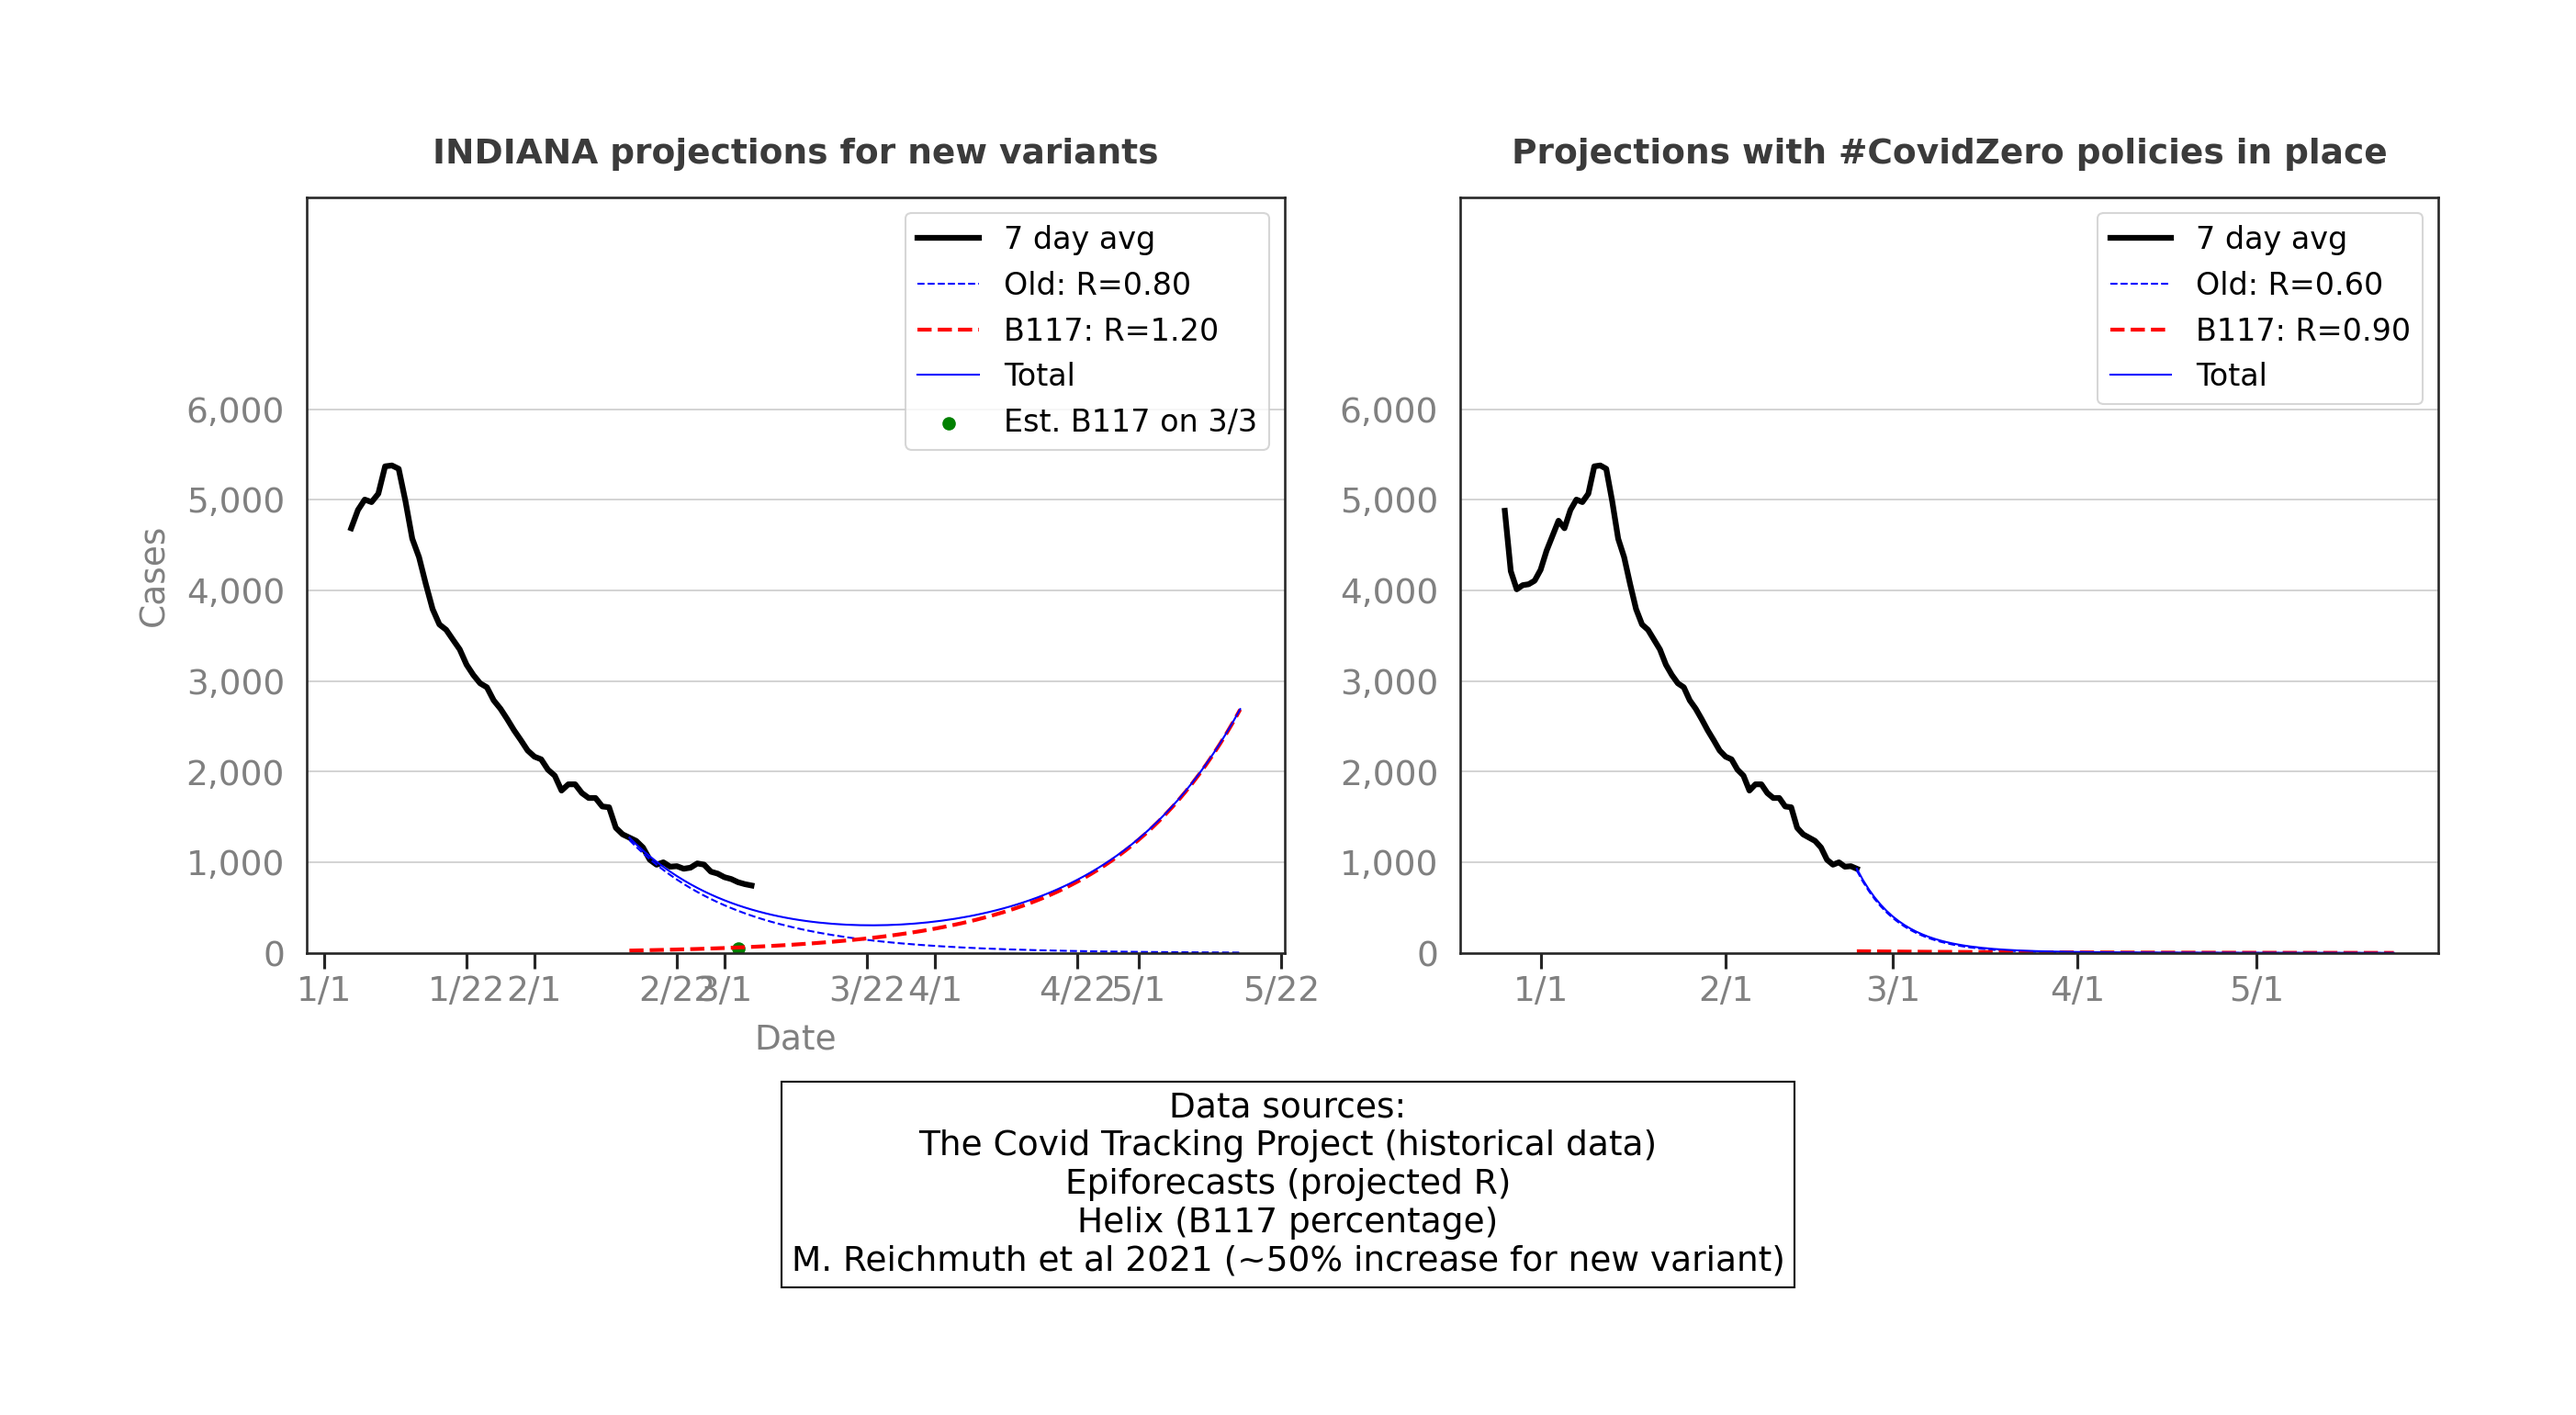
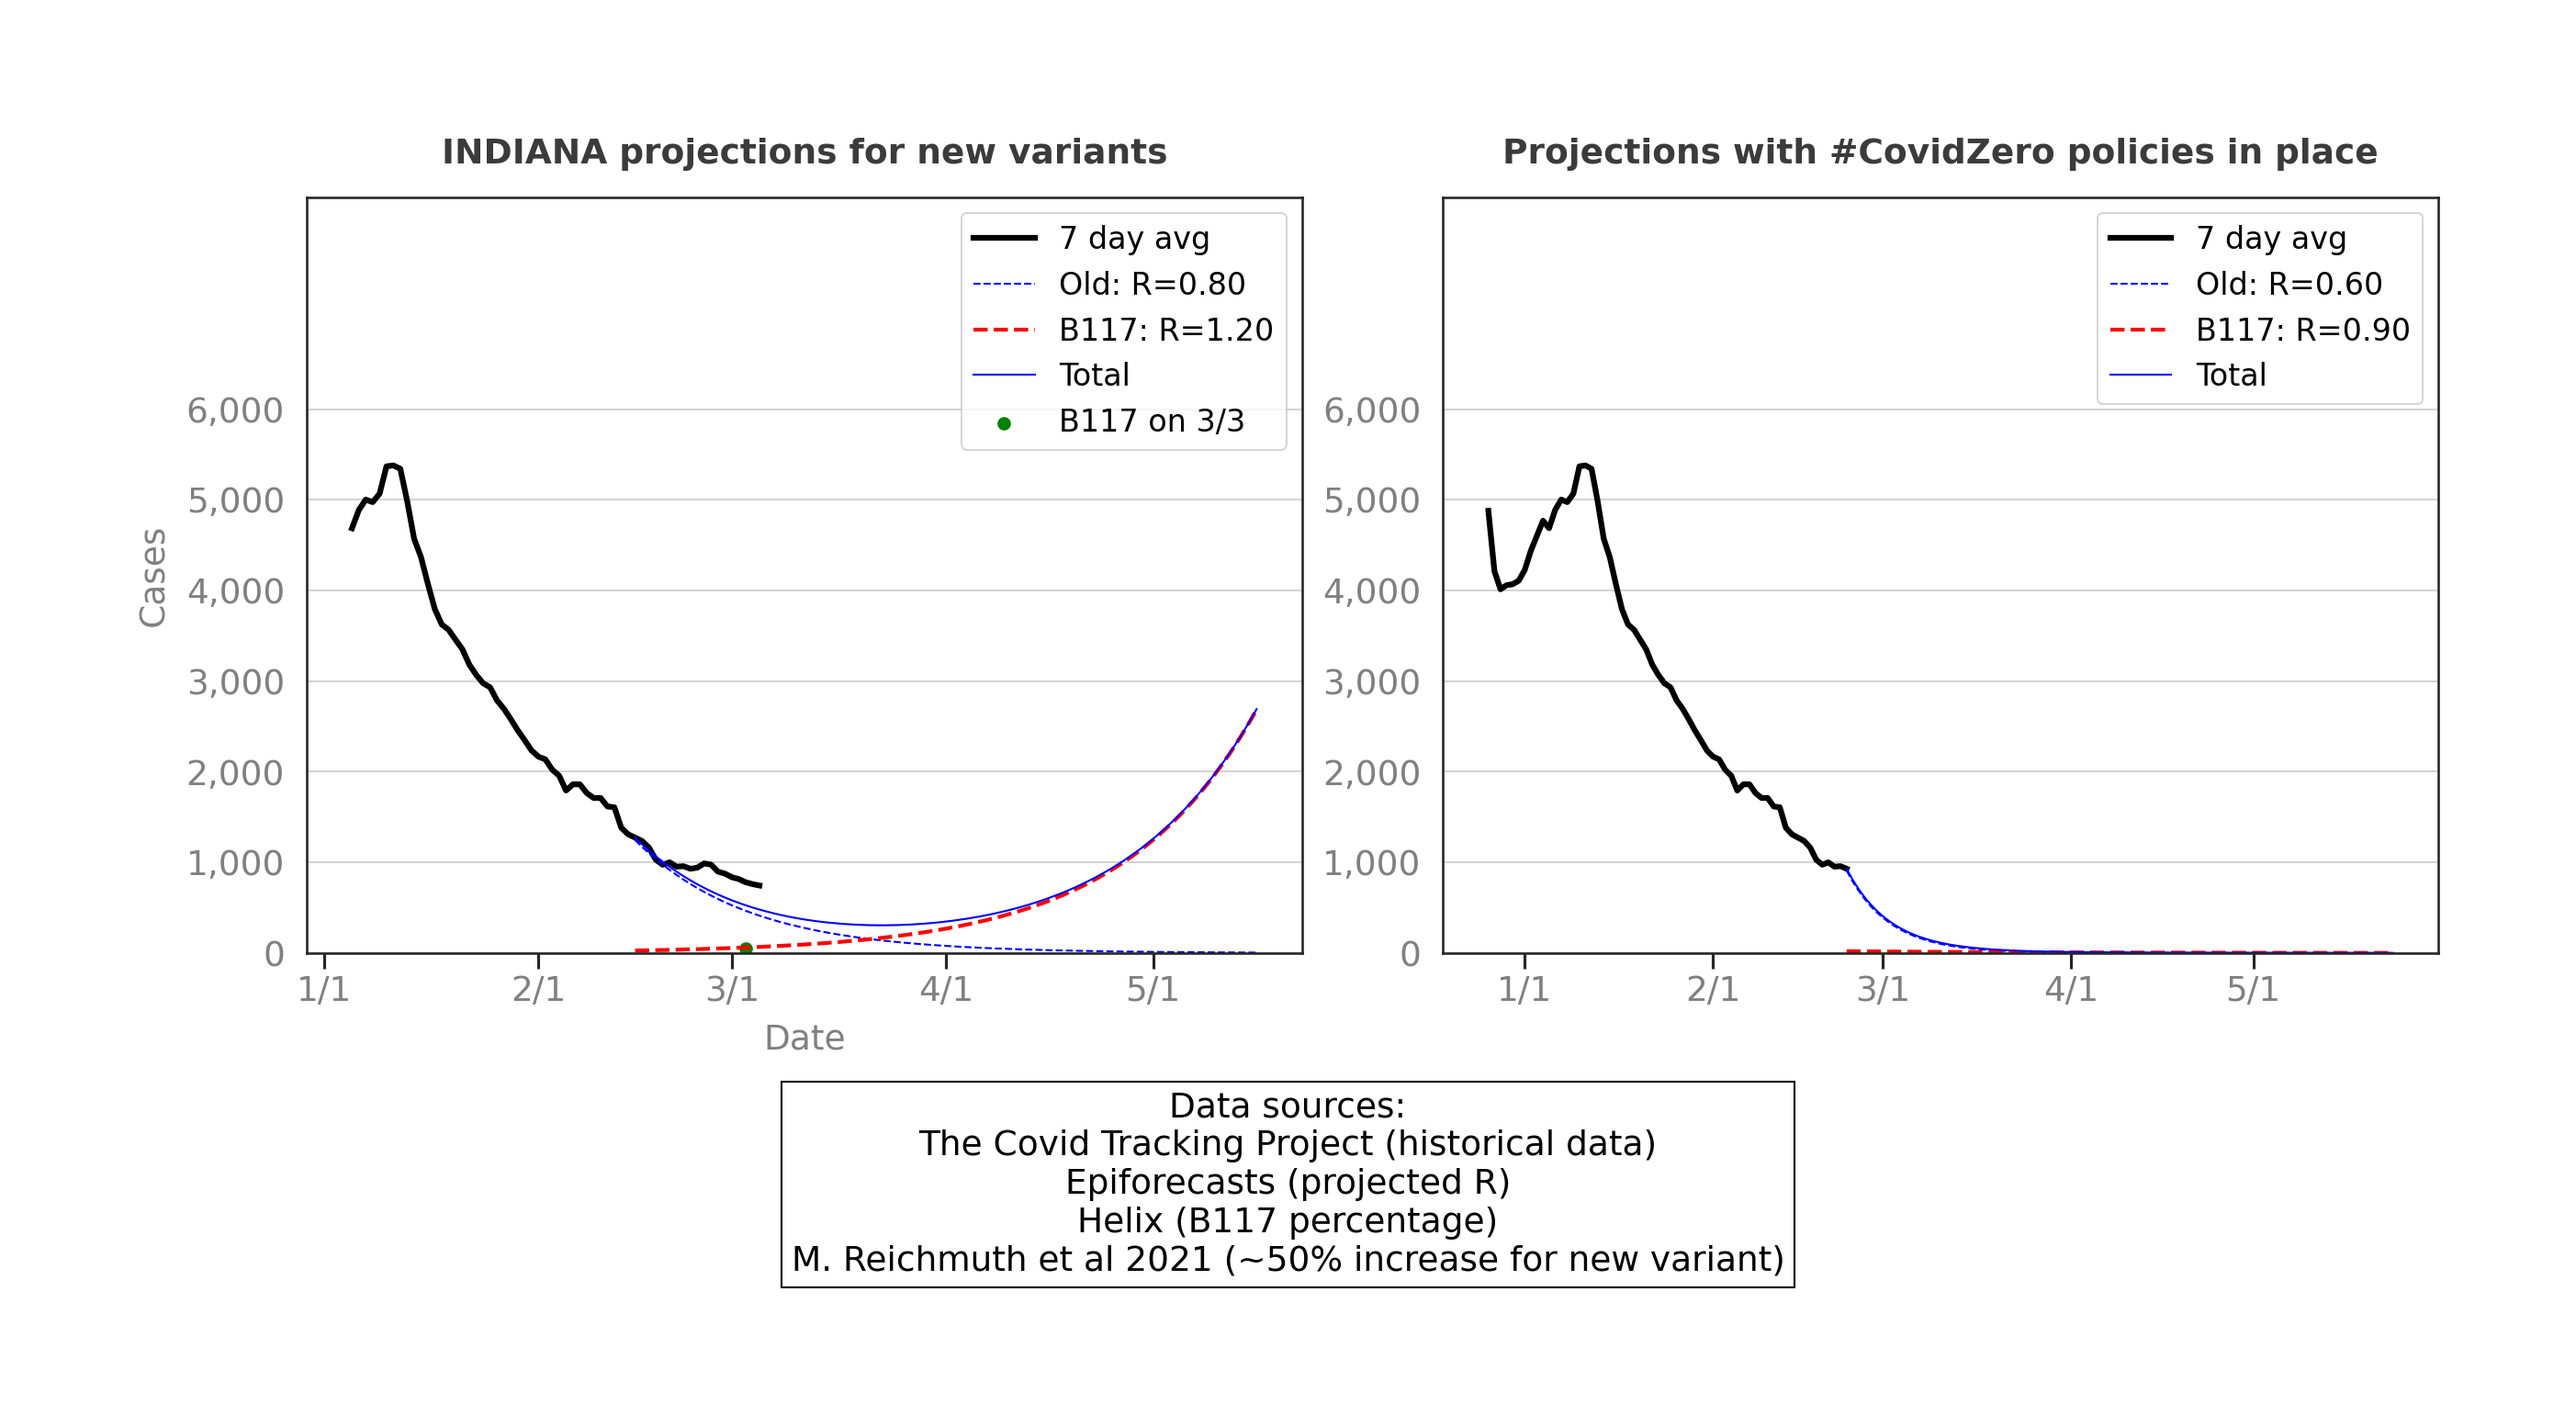
Fixed x axis date formatting

diff --git a/new_variant_estimate.py b/new_variant_estimate.py
@@ -11,6 +11,7 @@ from matplotlib.dates import DateFormatter
 import matplotlib.ticker as mticker
 import seaborn as sns
 import matplotlib.font_manager
+import matplotlib.dates as mdates
 import datetime
 import urllib.request, json
 
@@ -140,12 +141,19 @@ def setUpAxis(axis, y_cutoff, labels=False):
   axis.xaxis.set_major_formatter(date_form)    
 
 
-  # SETTING TICK PARAMATERS #
+  # SETTING Y TICK PARAMETERS #
   axis.tick_params(axis='y',labelcolor= 'grey',labelsize = 18,width=0, length=8)
   axis.tick_params(axis='x',labelcolor= 'grey',labelsize = 18,labelrotation=0, width=1.5, length=8)
   ticks_loc = axis.get_yticks().tolist()
   axis.yaxis.set_major_locator(mticker.FixedLocator(ticks_loc))
   axis.set_yticklabels(['{:,}'.format(int(x)) for x in ticks_loc])
+
+  # SETTNG DATE TICKS #
+  months = mdates.MonthLocator()  # every month
+  axis.xaxis.set_major_locator(months)
+  months_fmt = mdates.DateFormatter('%#m/%#d')
+  axis.xaxis.set_major_formatter(months_fmt)
+
 
   # SET Y LIMIT #
   axis.set_ylim((0, int(y_cutoff)))
@@ -289,7 +297,7 @@ def makeSubChart(df_historical, df_r_estimates, state, R_covid, R_variant,
 
     # # UPDATED B117 PCT PLOT #
     if pct_variant_update > 0:
-      axis.scatter(dates, variant_update, color='green', label='Est. B117 on 3/3')
+      axis.scatter(dates, variant_update, color='green', label='B117 on 3/3')
 
 
     # SUBPLOT TITLE#
@@ -384,7 +392,7 @@ if __name__ == '__main__':
   overlap = True
   update_data = False
   legend = True
-  state = 'ALL'
+  state = 'ALL' # set to ALL to run all available states
 
   if overlap:
     fig_folder='figs_overlap'
